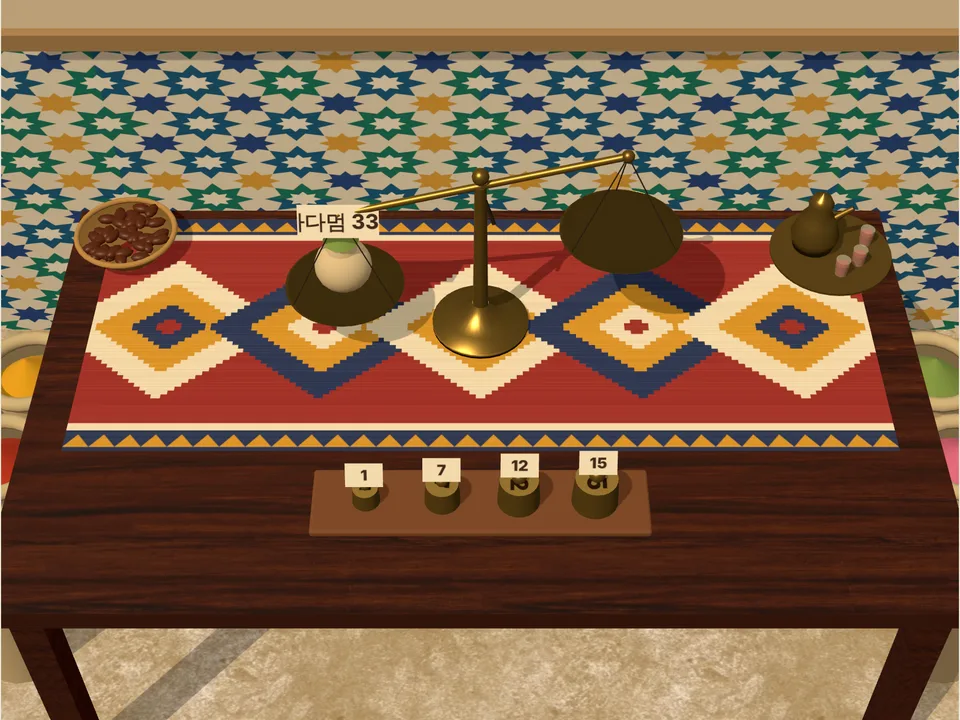
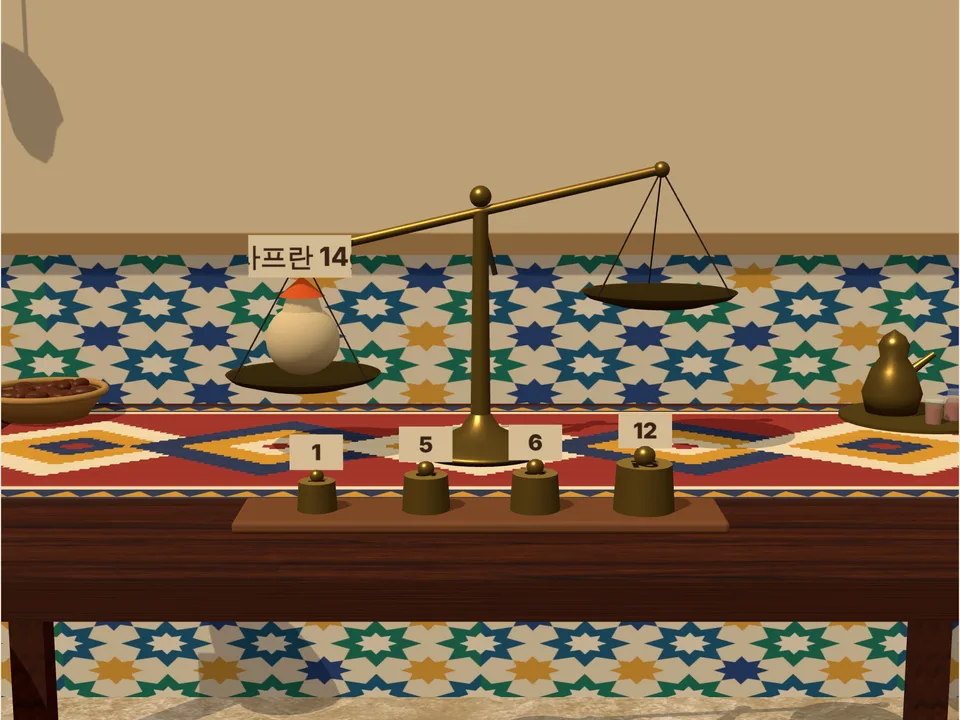
Balance quiz: the scales seen from the side, nearly level
The coins, weights and goods stages are now seen from the side so that a
beam's lean shows plainly. Coins stand upright in a stepped rack and in rows
on the pans with their numbers to the eye; weights stand in rows on the pans;
the goods' dials stand upright; with more than three small scales the back
three stand on a raised shelf. Marks stand upright. The mobile keeps its front
view. Thumbnail recaptured.

Claude-Session: https://claude.ai/code/session_01Uedx1uYtd54DPXXtQh77nN

diff --git a/src/games/scale/view.ts b/src/games/scale/view.ts
@@ -5,7 +5,7 @@ import { capturing } from "../../ui/banner";
 import type { Marks } from "../points/view";
 import { TableView, ringMesh, type Spot, type TableSubject } from "../table/view";
 import { ACCUSE, DOWN, GOODS, SET, SPICES, UP, WEIGH, WEIGHT, hung, isLeaf, lean, onPans, panWeight, reach, rods, shownLeaves, type Kind, type State } from "./rules";
-import { BIG, MOBILE, SMALL, TABLE, coinRest, goodsDial, hang, mobileDial, panPlace, smallAt, subjectOf, weightRest } from "./layout";
+import { BIG, MOBILE, RACK, SHELF, SMALL, TABLE, coinRest, goodsDial, hang, mobileDial, panRow, rackRow, smallAt, subjectOf, weightRest } from "./layout";
 
 export const BALANCE_COLORS: [string, string] = ["#c9a24a", "#22355c"];
 const UPWARD = new T.Vector3(0, 1, 0);
@@ -112,8 +112,8 @@ export class BalanceView extends TableView<State> {
     parent.add(mesh);
     return mesh;
   }
-  /** A brass balance of `size` (1 the big one) standing at `x`, `z`; `narrow` shortens its beam. */
-  private balance(x: number, z: number, size: number, narrow = 1): Balance {
+  /** A brass balance of `size` (1 the big one) standing at `x`, `z` (on a shelf `y` high); `narrow` shortens its beam. */
+  private balance(x: number, z: number, size: number, narrow = 1, y = 0): Balance {
     const root = new T.Group(),
       H = BIG.height * size,
       L = BIG.beam * size * narrow,
@@ -147,7 +147,7 @@ export class BalanceView extends TableView<State> {
       root.add(pan);
       pans.push(pan);
     }
-    root.position.set(x, 0, z);
+    root.position.set(x, y, z);
     this.world.add(root);
     const made: Balance = { root, beam, pans: pans as [T.Group, T.Group], H, L, C, R };
     this.lean(made, 0);
@@ -166,7 +166,8 @@ export class BalanceView extends TableView<State> {
   private coin(n: number) {
     const face = this.standard({ map: this.own(label(String(n + 1), 128, 128, "#6a4a12", "#e2b84a")), roughness: 0.35, metalness: 0.6 }),
       rim = this.standard({ color: "#c79a32", roughness: 0.35, metalness: 0.7 });
-    return this.part(this.world, new T.CylinderGeometry(0.33, 0.33, 0.1, 28), [rim, face, face]);
+    // It stands on its edge, faces to the eye.
+    return this.part(this.world, new T.CylinderGeometry(RACK.radius, RACK.radius, 0.1, 28).rotateX(Math.PI / 2).rotateZ(Math.PI / 2), [rim, face, face]);
   }
   /** A brass weight in the shape of a bell, its value on its top and, with `card`, on a small card standing on it; larger for heavier. */
   private weight(value: number, scale = 1, card = true) {
@@ -178,7 +179,7 @@ export class BalanceView extends TableView<State> {
     if (card) {
       // The value large on a card standing on the knob, turned up toward the eye, so that it can be read from afar.
       const tag = this.part(g, new T.PlaneGeometry(0.66 * scale, 0.44 * scale), this.standard({ map: this.own(label(String(value), 160, 106, "#3a2410", "#f6edd6")), roughness: 0.7, side: T.DoubleSide }), 0, h + r * 0.4 + 0.26 * scale, 0);
-      tag.rotation.x = -0.55;
+      tag.rotation.x = -0.12;
       tag.castShadow = false;
     }
     this.world.add(g);
@@ -257,17 +258,24 @@ export class BalanceView extends TableView<State> {
       this.scales.push(this.balance(BIG.x, BIG.z, 1));
       if (s.kind === "coins") {
         for (let i = 0; i < s.coins; i++) this.items.push(this.coin(i));
+        // The rack: a wooden step for each row of coins.
+        const rack = this.standard({ color: "#7a4a2a", roughness: 0.6 }),
+          rows = Math.ceil(s.coins / rackRow(s.coins)),
+          width = rackRow(s.coins) * RACK.gap + 0.5;
+        for (let r = 0; r < rows; r++) {
+          const h = 0.1 + r * RACK.step;
+          this.part(this.world, block(width, h, RACK.depth, 0.04), rack, 0, h / 2, RACK.z - r * RACK.depth).castShadow = false;
+        }
         // A sheet of paper at the right where the weighings are written down.
         const c = document.createElement("canvas");
         c.width = 512;
         c.height = 640;
         const texture = this.own(new T.CanvasTexture(c));
         texture.colorSpace = T.SRGBColorSpace;
-        // It stands on a little easel, leaning back toward the eye.
-        const lean = 0.8,
-          sheet = this.part(this.world, new T.PlaneGeometry(3.2, 4.0), this.standard({ map: texture, roughness: 0.9 }), 6.15, 2.0 * Math.cos(lean), -0.25);
-        sheet.rotation.set(-lean, -0.12, 0);
-        const board = this.part(sheet, new T.BoxGeometry(3.4, 4.2, 0.08), this.standard({ color: "#7a4a2a", roughness: 0.6 }), 0, 0, -0.05);
+        // It stands upright on the table at the right, leaning back a little.
+        const sheet = this.part(this.world, new T.PlaneGeometry(2.3, 2.9), this.standard({ map: texture, roughness: 0.9 }), 5.1, 1.55, 0.1);
+        sheet.rotation.set(-0.12, -0.2, 0);
+        const board = this.part(sheet, new T.BoxGeometry(2.5, 3.1, 0.08), this.standard({ color: "#7a4a2a", roughness: 0.6 }), 0, 0, -0.05);
         board.castShadow = true;
         this.log = { canvas: c, texture, said: "" };
       } else {
@@ -279,28 +287,32 @@ export class BalanceView extends TableView<State> {
         this.part(sack, new T.CylinderGeometry(0.2, 0.32, 0.35, 14), cloth, 0, 1.05);
         this.part(sack, new T.ConeGeometry(0.34, 0.3, 16), this.standard({ color: colour, roughness: 1 }), 0, 1.3);
         const tag = this.part(sack, new T.PlaneGeometry(1.5, 0.62), this.standard({ map: this.own(label(`${name} ${s.load}g`, 300, 124, "#3a2410", "#f6edd6", 800)), roughness: 0.8, side: T.DoubleSide }), 0, 1.75, 0.15);
-        tag.rotation.x = -0.55;
+        tag.rotation.x = -0.1;
         this.scales[0].pans[0].add(sack);
         sack.position.y = 0.22;
         // The weights in a tray in front.
-        const tray = this.part(this.world, block(s.weights.length * 1.35 + 0.6, 0.16, 1.4, 0.06), this.standard({ color: "#7a4a2a", roughness: 0.6 }), 0, 0.08, weightRest(0, 1).z);
+        const tray = this.part(this.world, block(s.weights.length * 1.35 + 0.6, 0.16, 1.2, 0.06), this.standard({ color: "#7a4a2a", roughness: 0.6 }), 0, 0.08, weightRest(0, 1).z);
         tray.castShadow = false;
         s.weights.forEach((w) => this.items.push(this.weight(w)));
       }
     } else if (s.kind === "goods") {
+      // With more than three scales the back three stand on a raised shelf, so that those before them hide nothing.
+      if (s.scales.length > 3) {
+        const shelf = this.standard({ color: "#6a4a2c", roughness: 0.6 });
+        this.part(this.world, block(SHELF.width, SHELF.height, 2.0, 0.06), shelf, 0, SHELF.height / 2, SHELF.z).castShadow = false;
+      }
       s.scales.forEach((sc, i) => {
         const at = smallAt(i, s.scales.length),
-          b = this.balance(at.x, at.z, SMALL, 0.78);
+          b = this.balance(at.x, at.z, SMALL, 0.78, at.y);
         this.scales.push(b);
         sc.left.concat(sc.right).forEach((item, k) => {
           const side = k < sc.left.length ? 0 : 1,
             j = side === 0 ? k : k - sc.left.length,
             n = side === 0 ? sc.left.length : sc.right.length,
             thing = item >= WEIGHT ? this.weight(item - WEIGHT, 0.8) : this.goods(item, 1.0),
-            ring = n === 1 ? 0 : 0.36,
-            a = (j / n) * Math.PI * 2 + 0.4;
+            spot = panRow(j, n, 2, 0.5);
           b.pans[side].add(thing);
-          thing.position.set(Math.cos(a) * ring, 0.16, Math.sin(a) * ring);
+          thing.position.set(spot.x, 0.16 + spot.y, spot.z);
         });
       });
       // The dials in front: the goods on a plate, the number, and ▲ ▼.
@@ -310,9 +322,11 @@ export class BalanceView extends TableView<State> {
         this.part(this.world, new T.CylinderGeometry(0.62, 0.55, 0.08, 28), plate, at.good.x, 0.04, at.good.z);
         const thing = this.goods(i, 1.15);
         thing.position.set(at.good.x, 0.08, at.good.z);
-        this.tile(this.world, at.tile.x, 0.08, at.tile.z, false);
-        this.arrowhead(this.world, at.up.x, 0.05, at.up.z + 0.13, true, false);
-        this.arrowhead(this.world, at.down.x, 0.05, at.down.z - 0.13, false, false);
+        // The number stands upright on a little foot, ▲ above it and ▼ below.
+        this.part(this.world, block(0.5, 0.36, 0.3, 0.04), this.standard({ color: "#6a4a2a", roughness: 0.6 }), at.tile.x, 0.04, at.tile.z - 0.12).castShadow = false;
+        this.tile(this.world, at.tile.x, at.tile.y, at.tile.z, true);
+        this.arrowhead(this.world, at.up.x, at.up.y - 0.13, at.up.z, true, true);
+        this.arrowhead(this.world, at.down.x, at.down.y + 0.13, at.down.z, false, true);
       });
     } else if (s.mobile) {
       // The stall's beam the mobile hangs from, on two posts.
@@ -387,14 +401,17 @@ export class BalanceView extends TableView<State> {
     const b = this.scales[0];
     if (s.pans[i] === 0) {
       const rest = s.kind === "coins" ? coinRest(i, s.coins) : weightRest(i, s.weights.length);
-      return new T.Vector3(rest.x, s.kind === "coins" ? 0.05 : 0.16, rest.z);
+      return new T.Vector3(rest.x, rest.y, rest.z);
     }
     this.lean(b, angle);
+    // On a pan they stand in rows across it, upright as in the rack: four coins to a row, or three weights.
     const side = s.pans[i] - 1,
       order = s.pans.slice(0, i).filter((p) => p === s.pans[i]).length,
-      spot = panPlace(order, s.kind === "coins" ? 0.62 : 0.6),
+      total = s.pans.filter((p) => p === s.pans[i]).length,
+      coins = s.kind === "coins",
+      spot = coins ? panRow(order, total, 4, 0.52) : panRow(order, total, 3, 0.72),
       pan = b.pans[side].position;
-    return new T.Vector3(BIG.x + pan.x + spot.x, pan.y + 0.24 + spot.y * (s.kind === "coins" ? 0.11 : 0.5), BIG.z + pan.z + spot.z);
+    return new T.Vector3(BIG.x + pan.x + spot.x, pan.y + 0.2 + (coins ? RACK.radius : 0) + spot.y, BIG.z + pan.z + spot.z);
   }
   /** Lays everything out with the beams and rods at `angles`, the items where `moving` puts them (or where the state has them). */
   private lay(s: State, angles: number[], moving: Map<number, T.Vector3> = new Map()) {
@@ -503,11 +520,11 @@ export class BalanceView extends TableView<State> {
   /** The place a press on each point counts, and where marks go. */
   private points(s: State): { point: number; at: T.Vector3; r: number }[] {
     const out: { point: number; at: T.Vector3; r: number }[] = [];
-    if (s.kind === "coins" || s.kind === "weights") this.items.forEach((item, i) => out.push({ point: i, at: item.position.clone().add(new T.Vector3(0, 0.15, 0)), r: s.kind === "coins" ? 0.4 : 0.5 }));
+    if (s.kind === "coins" || s.kind === "weights") this.items.forEach((item, i) => out.push({ point: i, at: item.position.clone().add(new T.Vector3(0, s.kind === "coins" ? 0 : 0.35, 0)), r: s.kind === "coins" ? 0.36 : 0.5 }));
     else if (s.kind === "goods")
       s.guess.forEach((_, i) => {
         const at = goodsDial(i, s.guess.length);
-        out.push({ point: UP + i, at: new T.Vector3(at.up.x, 0.1, at.up.z), r: 0.32 }, { point: DOWN + i, at: new T.Vector3(at.down.x, 0.1, at.down.z), r: 0.32 }, { point: UP + i, at: new T.Vector3(at.tile.x, 0.16, at.tile.z), r: 0.3 });
+        out.push({ point: UP + i, at: new T.Vector3(at.up.x, at.up.y, at.up.z), r: 0.3 }, { point: DOWN + i, at: new T.Vector3(at.down.x, at.down.y, at.down.z), r: 0.3 }, { point: UP + i, at: new T.Vector3(at.tile.x, at.tile.y, at.tile.z + 0.1), r: 0.32 });
       });
     else if (s.mobile) {
       const laid = hang(s.mobile, this.angles, s.leaves.length);
@@ -534,9 +551,9 @@ export class BalanceView extends TableView<State> {
     const at = marks.cursor !== null ? find(marks.cursor) : undefined;
     if (at) {
       this.cursor.visible = true;
-      this.cursor.position.copy(at.at);
-      if (s.kind === "mobile") this.cursor.rotation.set(0, 0, 0);
-      else this.cursor.rotation.set(-Math.PI / 2, 0, 0);
+      // Everything is seen from the side now: the ring stands upright round what it marks.
+      this.cursor.position.copy(at.at).add(new T.Vector3(0, 0, 0.2));
+      this.cursor.rotation.set(0, 0, 0);
     }
     const hinted = marks.hint?.to;
     if (hinted === undefined || hinted === null || s.winner !== null) return;
@@ -547,15 +564,14 @@ export class BalanceView extends TableView<State> {
         tile = find(UP + i) && points.filter((p) => p.point === UP + i)[1];
       if (!tile) return;
       this.ring.visible = true;
-      this.ring.position.copy(tile.at);
-      if (s.kind === "mobile") this.ring.rotation.set(0, 0, 0);
-      else this.ring.rotation.set(-Math.PI / 2, 0, 0);
+      this.ring.position.copy(tile.at).add(new T.Vector3(0, 0, 0.12));
+      this.ring.rotation.set(0, 0, 0);
       const material = this.target.material as T.SpriteMaterial;
       material.map?.dispose();
       material.map = label(`→ ${value}`, 160, 96, "#ffffff", "#c88a10");
       material.needsUpdate = true;
       this.target.visible = true;
-      this.target.position.copy(tile.at).add(s.kind === "mobile" ? new T.Vector3(0.95, 0, 0.2) : new T.Vector3(0, 0.7, -0.1));
+      this.target.position.copy(tile.at).add(new T.Vector3(0.95, 0, 0.2));
       return;
     }
     const spot = hinted === WEIGH || hinted === ACCUSE ? null : find(hinted);

diff --git a/src/games/scale/layout.ts b/src/games/scale/layout.ts
@@ -6,43 +6,54 @@ import { isLeaf, rods, type Kind, type Node, type Rod } from "./rules";
  */
 export const TABLE = { half: 8.5, depth: 5 };
 /** The big scale (coins and weights): its foot, the height of its pivot, half its beam, its chains and pans. */
-export const BIG = { x: 0, z: -1.7, height: 3.6, beam: 2.7, chain: 2.0, pan: 1.15 };
+export const BIG = { x: 0, z: -1.2, height: 3.6, beam: 2.7, chain: 2.0, pan: 1.15 };
 /** A small scale of the goods' stage, as a share of the big one. */
 export const SMALL = 0.6;
+/**
+ * What the camera keeps in view. The scales are seen from the side, nearly level with them (the user asked), so that
+ * a beam's lean shows plainly; the mobile is seen from the front.
+ */
 export function subjectOf(kind: Kind) {
   if (kind === "mobile") return { half: 6.8, halfZ: 2.2, height: 10.2, lookY: 5.6, tilt: 0.3 };
-  if (kind === "goods") return { half: 7.4, halfZ: 4.1, height: 2.6, lookY: 0.4, tilt: 0.92 };
-  return { half: 7.6, halfZ: 4.0, height: 3.9, lookY: 0.8, tilt: 0.86 };
+  if (kind === "goods") return { half: 6.8, halfZ: 3.2, height: 4.2, lookY: 1.5, tilt: 0.24 };
+  return { half: 5.9, halfZ: 2.8, height: 4.1, lookY: 1.6, tilt: 0.24 };
 }
-/** Where coin `i` of `n` lies on the table, off the scale. */
+/** The coins wait upright in a stepped rack at the front, faces to the eye; each row a step higher and further back. */
+export const RACK = { z: 2.6, step: 0.5, depth: 0.62, gap: 0.78, radius: 0.33 };
+/** How many coins a row of the rack takes. */
+export const rackRow = (n: number) => (n <= 9 ? n : n <= 12 ? 6 : 9);
+/** Where coin `i` of `n` stands in the rack (its middle). */
 export function coinRest(i: number, n: number) {
-  const perRow = n <= 9 ? n : n <= 12 ? 6 : 9,
-    rows = Math.ceil(n / perRow),
+  const perRow = rackRow(n),
     row = Math.floor(i / perRow),
     col = i % perRow,
     inRow = Math.min(perRow, n - row * perRow);
-  return { x: (col - (inRow - 1) / 2) * 0.86, z: 1.7 + (row - (rows - 1) / 2) * 0.9 + (rows - 1) * 0.45 };
+  return { x: (col - (inRow - 1) / 2) * RACK.gap, y: RACK.radius + 0.1 + row * RACK.step, z: RACK.z - row * RACK.depth };
 }
-/** Where weight `i` of `n` stands in its tray. */
-export const weightRest = (i: number, n: number) => ({ x: (i - (n - 1) / 2) * 1.35, z: 2.75 });
-/** The `k`-th place on a pan, from its middle outward and then up (in units of the pan's radius). */
-export function panPlace(k: number, ring: number) {
-  const layer = Math.floor(k / 7),
-    j = k % 7;
-  return { x: j === 0 ? 0 : Math.cos((j * Math.PI) / 3) * ring, y: layer, z: j === 0 ? 0 : Math.sin((j * Math.PI) / 3) * ring };
+/** Where weight `i` of `n` stands in its tray (its foot). */
+export const weightRest = (i: number, n: number) => ({ x: (i - (n - 1) / 2) * 1.35, y: 0.16, z: 2.6 });
+/** The `k`-th of `total` things on a pan, in rows across it, each row a little further back and higher, `perRow` to a row. */
+export function panRow(k: number, total: number, perRow: number, gap: number) {
+  const rows = Math.ceil(total / perRow),
+    row = Math.floor(k / perRow),
+    inRow = Math.min(perRow, total - row * perRow),
+    j = k % perRow;
+  return { x: (j - (inRow - 1) / 2) * gap, y: row * 0.16, z: (rows - 1) * 0.17 - row * 0.34 };
 }
-/** Where the small scales of the goods' stage stand: one row of up to three, or a back row of three and a front row. */
+/** Where the small scales of the goods' stage stand: one row on the table, or three on a raised shelf behind and the rest before it. */
+export const SHELF = { height: 1.6, z: -2.7, width: 12 };
 export function smallAt(i: number, n: number) {
-  const back = Math.min(3, n),
-    row = i < back ? 0 : 1,
-    inRow = row === 0 ? back : n - back,
-    k = row === 0 ? i : i - back;
-  return { x: (k - (inRow - 1) / 2) * 4.0, z: n <= 3 ? -1.5 : row === 0 ? -2.6 : 0.4 };
+  if (n <= 3) return { x: (i - (n - 1) / 2) * 4.3, y: 0, z: -0.9 };
+  if (i < 3) return { x: (i - 1) * 4.2, y: SHELF.height, z: SHELF.z };
+  const inRow = n - 3,
+    k = i - 3;
+  return { x: (k - (inRow - 1) / 2) * 4.2, y: 0, z: 0.2 };
 }
-/** Where dial `i` of `n` lies in the goods' stage: the goods on a plate at its left, the number at its right, ▲ behind and ▼ in front. */
+/** Where dial `i` of `n` stands in the goods' stage: the goods on a plate at its left, the number upright at its right, ▲ above and ▼ below. */
 export function goodsDial(i: number, n: number) {
-  const x = (i - (n - 1) / 2) * 3.2;
-  return { good: { x: x - 0.75, z: 3.1 }, tile: { x: x + 0.45, z: 3.1 }, up: { x: x + 0.45, z: 2.45 }, down: { x: x + 0.45, z: 3.75 } };
+  const x = (i - (n - 1) / 2) * 3.2,
+    z = 3.3;
+  return { good: { x: x - 0.75, y: 0, z }, tile: { x: x + 0.45, y: 0.72, z }, up: { x: x + 0.45, y: 1.2, z: z + 0.03 }, down: { x: x + 0.45, y: 0.24, z: z + 0.03 } };
 }
 /** The mobile: the step of an arm, the height of the top pivot, the threads to a rod and to a weight. */
 export const MOBILE = { unit: 1.0, top: 9.0, beam: 10.4, rodThread: 1.5, leafThread: 0.95 };

diff --git a/AGENTS.md b/AGENTS.md
@@ -174,3 +174,4 @@
 - One Card is played on a bed in a bedroom (the user asked): `bedroom` in `scenery.ts` (a star-patterned duvet whose top is the table at height 0, pillows, a headboard, a teddy bear, a phone and a bowl of popcorn clear of the cards, a nightstand with a lamp and an alarm clock, a bookshelf, slippers and a rug), with `DeckView(..., felt = false)` and the view's own lights; the camera and layout are unchanged.
 - One Card seats four (the user asked: me at the south, computers west, north and east, `SEAT_NAME`): `State.seat` is the one to move and `dir` the way play goes round (`onward` passes over seats that are `out`); a J jumps the next player, a Q turns the order round, a K plays again, and an attack falls on the next player. The first to empty a hand wins (`champion`; `winner` is 0 only when that is me, or when all three computers have gone bankrupt); a hand of twenty loses the game for me but only takes a computer out, its cards going back under the pile (`bankrupt`). The view lays the computers' hands across the far side and down my left and right (`rivalCard` in `onecard/layout.ts`) and lights the duvet under the hand of the seat to move (`light`).
 - The balance quiz (`scale/`, titled 저울 퀴즈, id `balance-quiz`) is a `puzzle` with four stages like river crossing (the user asked), each laid at random with one answer only: false coin (`doubts`, `suspects`; the false coin is never fixed: a weighing falls the way that leaves the most coins in doubt (`fall`), so naming a coin before the weighings settle it loses; `search` over counts of coins that may be heavier or lighter, only heavier, only lighter and true gives the hint and `solvable`), weights (a parcel on the left pan, `levellings` must find one setting), goods (scales of goods and weights that the dials must level, `goodsAnswers`, at most five scales) and a mobile (`hang` in `scale/layout.ts`, `lean`; hidden leaves with dials, `mobileAnswers`, kept within the stall's posts by `reach`). A tap moves a coin or weight off → left → right → off; dials have ▲ ▼ (`UP`, `DOWN`) and the hint is `setTo(dial, value)`, shown as a ring and a gold number. Scales and rods lean as the weights on them say (`tilt`). It stands on a market stall in a bazaar (`souk` in `scenery.ts`, the user asked), all modelled and painted in code; weights carry upright number cards so that they read from afar. Layout numbers browser tests may use are in `scale/layout.ts`.
+- The balance quiz's scales are seen from the side, nearly level (the user asked; `subjectOf` tilts 0.24): coins stand upright, faces to the eye, in a stepped rack (`RACK`, `coinRest`) and in rows on the pans (`panRow`), weights in rows of three on the pans, the goods' dials stand upright (`goodsDial`), and with more than three small scales the back three stand on a raised shelf (`SHELF`) so that the front ones hide nothing. Marks and rings stand upright round what they mark. The mobile keeps its front view.

diff --git a/README.md b/README.md
@@ -488,6 +488,8 @@ CHROMIUM_PATH=/usr/bin/chromium npm run test:e2e
 
 저울 퍼즐 네 가지를 한 게임에 모았습니다(`src/games/scale/`, id `balance-quiz`). 강 건너기처럼 앉으면 스테이지를 고르고, 문제는 매번 무작위로 만들되 답이 하나뿐인 것만 냅니다(`rules.ts`가 만들 때 찾아 확인하고, 단위 테스트는 스테이지마다 30문제를 힌트만 따라 풉니다). 모두 63종입니다.
 
+저울은 옆에서 거의 수평으로 바라봅니다(가짜 동전·추 달기·물건 무게; 모빌은 앞에서). 그래서 동전은 계단식 받침대와 접시 위에 세워 숫자가 보이고, 물건 무게의 다이얼도 세워 두었으며, 저울이 넷 이상이면 뒤의 셋은 높은 선반에 올려 앞의 저울에 가리지 않게 했습니다.
+
 - **가짜 동전**: 동전 6~9개에 저울 2번(가짜가 무거운지 가벼운지 알려 줌), 13~27개에 3번(알려 줌), 10~12개에 3번(모름) 가운데 하나. 동전을 누르면 왼쪽 접시 → 오른쪽 접시 → 테이블로 옮겨 가고, 양쪽에 같은 수를 올려야 저울을 달 수 있습니다. 가짜는 미리 정해 두지 않고, 저울은 늘 가장 많은 동전이 의심받는 쪽으로 기웁니다(`fall`). 그래서 확실해진 뒤에 지목해야만 맞습니다. 달아 본 결과는 이젤 위 종이에 적힙니다. 힌트는 남은 횟수 안에 반드시 찾아내는 달기를 찾아 줍니다(`search`: 동전을 무거울 수도·가벼울 수도·무거운 쪽만·가벼운 쪽만·진짜로 나눈 개수로 따지는 탐색).
 - **추 달기**: 왼쪽 접시의 향신료 꾸러미(무게가 꼬리표에 적힘)와 놋쇠 추 4~5개. 추를 꾸러미와 같은 쪽에 올려도 되고, 수평이 되는 방법은 하나뿐입니다(`levellings`).
 - **물건 무게**: 석류·레몬·무화과(·오이)의 무게(1~9)를, 물건과 추를 올린 작은 저울 3~5개가 모두 수평이 되도록 다이얼(▲▼, 1~12)로 정합니다. 저울은 고른 값에 따라 실제로 기웁니다.

diff --git a/ROADMAP.md b/ROADMAP.md
@@ -298,3 +298,4 @@
 - [x] 컬링: 1인칭 시점(핵 뒤에서 하우스를 보고, 스톤을 따라가는 시점)과 아이스링크 배경; 여우와 거위: 텍사스 목장 배경; 우르 왕실 게임: 우르 궁전 방 배경
 - [x] 새 퍼즐: 스타 배틀(5×5–9×9, 무작위·답 하나)
 - [x] 새 퍼즐: 저울 퀴즈(가짜 동전·추 달기·물건 무게·모빌, 스테이지마다 무작위·답 하나, 중동 시장 좌판 배경)
+- [x] 저울 퀴즈: 저울을 옆(수평 방향)에서 보는 시점, 세운 동전·다이얼, 선반 위 뒷줄 저울
